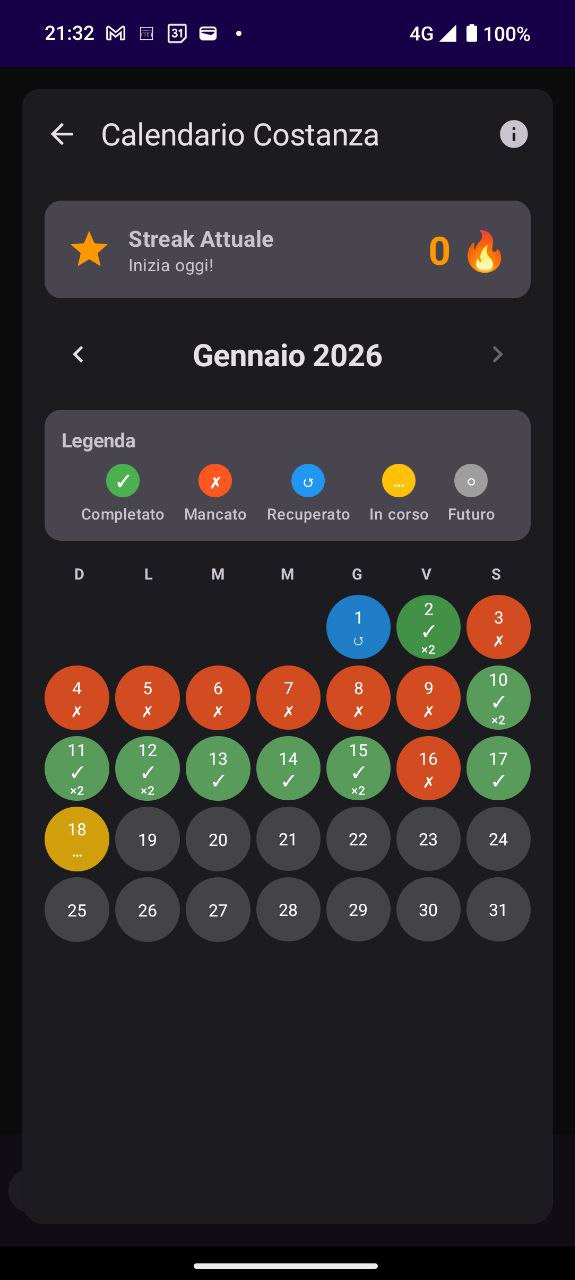
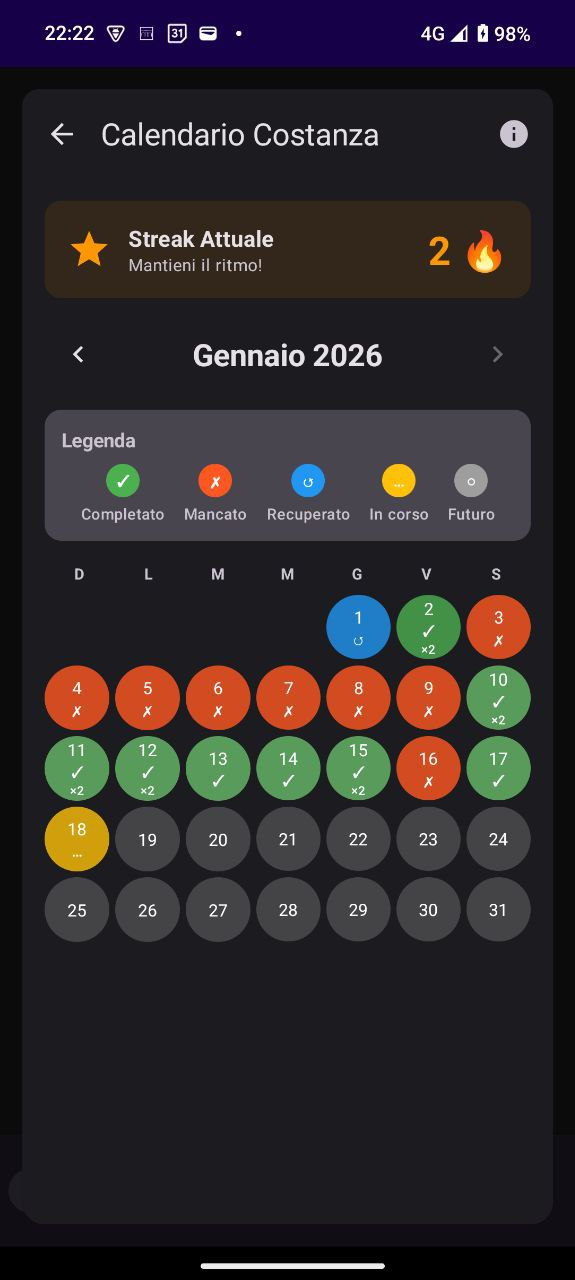
feat: add imgs

diff --git a/app/src/main/java/com/programminghut/pose_detection/data/repository/SessionRepository.kt b/app/src/main/java/com/programminghut/pose_detection/data/repository/SessionRepository.kt
@@ -512,6 +512,9 @@ class SessionRepository(
     /**
      * Calculate streak using both WorkoutSession AND DailySession data
      * This is used by CalendarViewModel which has access to both data sources
+     * 
+     * ⚠ IMPORTANTE: NON usa la mappa dailySummaries.containsKey() perché quella
+     * contiene solo giorni con countsAsActivity=1, ma deve controllare direttamente il DB
      */
     suspend fun calculateStreakWithDailySessions(
         dailySummaries: Map<Long, com.programminghut.pose_detection.data.dao.DailySessionDaySummary>
@@ -520,13 +523,14 @@ class SessionRepository(
         var streak = 0
         val today = getStartOfDay(System.currentTimeMillis())
         
-        // 🔥 FIX: Check if TODAY has activity first
+        // 🔥 FIX: Check if TODAY has activity first usando le query DB corrette
         val todayEnd = today + oneDayMillis
         val todayHasSessions = sessionDao.hasSessionsForDay(today, todayEnd)
         val todayAllSessions = sessionDao.getSessionsForDay(today, todayEnd)
         val todayHasRecovery = todayAllSessions.any { it.sessionType == "RECOVERY" }
-        val todayHasDailySession = dailySummaries.containsKey(today)
-        val todayHasActivity = todayHasSessions || todayHasRecovery || todayHasDailySession
+        // ✅ Usa hasPhysicalActivityForDay() invece di containsKey()
+        val todayHasDailyActivity = dailySessionDao?.hasPhysicalActivityForDay(today, todayEnd) ?: false
+        val todayHasActivity = todayHasSessions || todayHasRecovery || todayHasDailyActivity
         
         // Start from today if has activity, otherwise start from yesterday
         var currentDay = if (todayHasActivity) today else (today - oneDayMillis)
@@ -540,11 +544,11 @@ class SessionRepository(
             val allSessionsForDay = sessionDao.getSessionsForDay(currentDay, dayEnd)
             val hasRecoveryByType = allSessionsForDay.any { it.sessionType == "RECOVERY" }
             
-            // Check DailySession summary
-            val hasDailySession = dailySummaries.containsKey(currentDay)
+            // ✅ Check DailySession usando query DB invece di containsKey()
+            val hasDailyActivity = dailySessionDao?.hasPhysicalActivityForDay(currentDay, dayEnd) ?: false
             
             // Count if either WorkoutSession OR DailySession has data
-            if (hasSessions || hasRecoveryByType || hasDailySession) {
+            if (hasSessions || hasRecoveryByType || hasDailyActivity) {
                 streak++
                 currentDay -= oneDayMillis
             } else {
